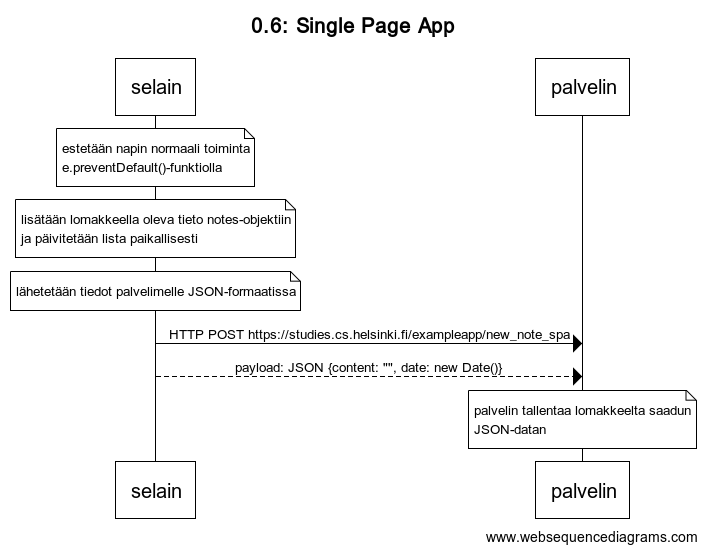
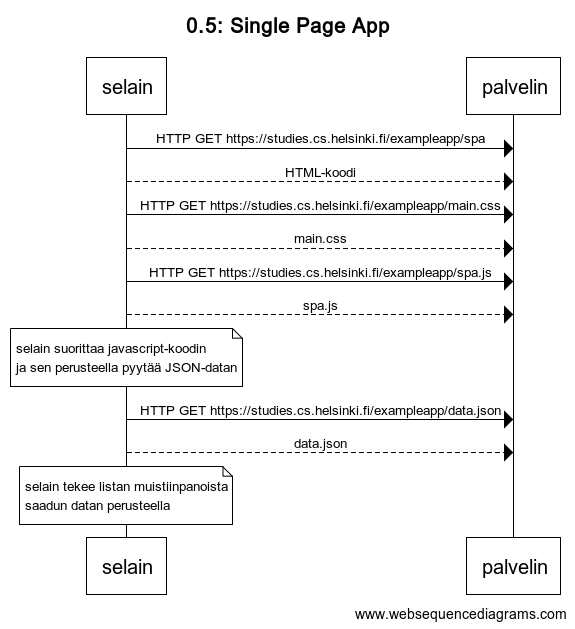
tehty 0.6 ja korjattu vanhoja tehtäviä

diff --git a/00/0.5.md b/00/0.5.md
@@ -1,5 +1,5 @@
 # 0.5: Single Page App
 
-Kaavio uuden muistiinpanon luomisesta Single Page Appilla:
+Kaavio tilanteesta, kun menee muistiinpanojen Single Page App-versioon:  
 
-![uusi muistiinpano](https://github.com/Elyrie/fullstack-open/blob/main/00/assets/0.5_spa.png?raw=true)
+![SPA](https://github.com/Elyrie/fullstack-open/blob/main/00/assets/0.5_spa.png?raw=true)

diff --git a/00/0.6.md b/00/0.6.md
@@ -1,0 +1,5 @@
+# 0.5: Single Page App
+
+Kaavio uuden muistiinpanon luomisesta Single Page Appilla:
+
+![uusi muistiinpano](https://github.com/Elyrie/fullstack-open/blob/main/00/assets/0.6_uusi_muistiinpano.png?raw=true)
